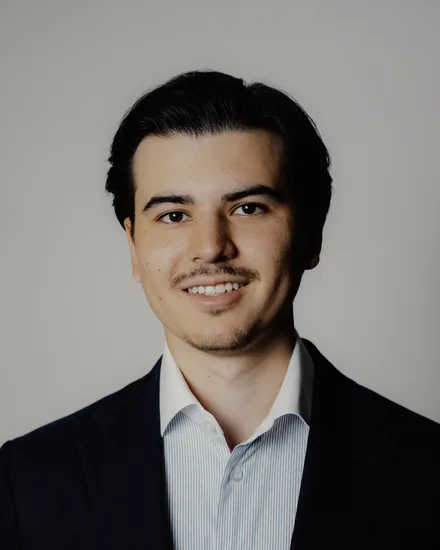
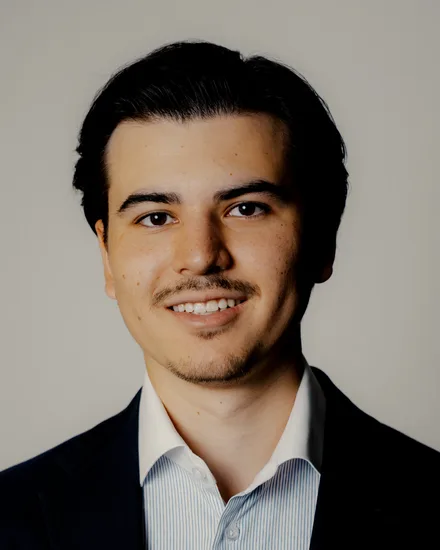
Portrait enger geschnitten, Kanji-Overlay ueber dem Bild entfernt

diff --git a/assets/site.css b/assets/site.css
@@ -183,7 +183,7 @@
   .portrait::after { content: '黒岩'; position: absolute; top: 18px; right: 20px; font-family: var(--serif); color: rgba(246,245,242,.14); font-size: 21px; letter-spacing: .2em; }
   .portrait picture, .portrait img { position: absolute; inset: 0; width: 100%; height: 100%; display: block; object-fit: cover; object-position: 50% 30%; }
   .portrait.mit-bild { background: var(--paper2); }
-  .portrait.mit-bild::after { color: rgba(11,11,12,.16); z-index: 2; }
+  .portrait.mit-bild::after { content: none; }
   .ueber p { color: #504e49; margin-bottom: 14px; max-width: 560px; }
   .ueber .punkte { margin: 26px 0; }
   .ueber .punkte div { padding: 14px 0; border-bottom: 1px solid var(--hair); display: flex; gap: 16px; font-size: 15.5px; }
